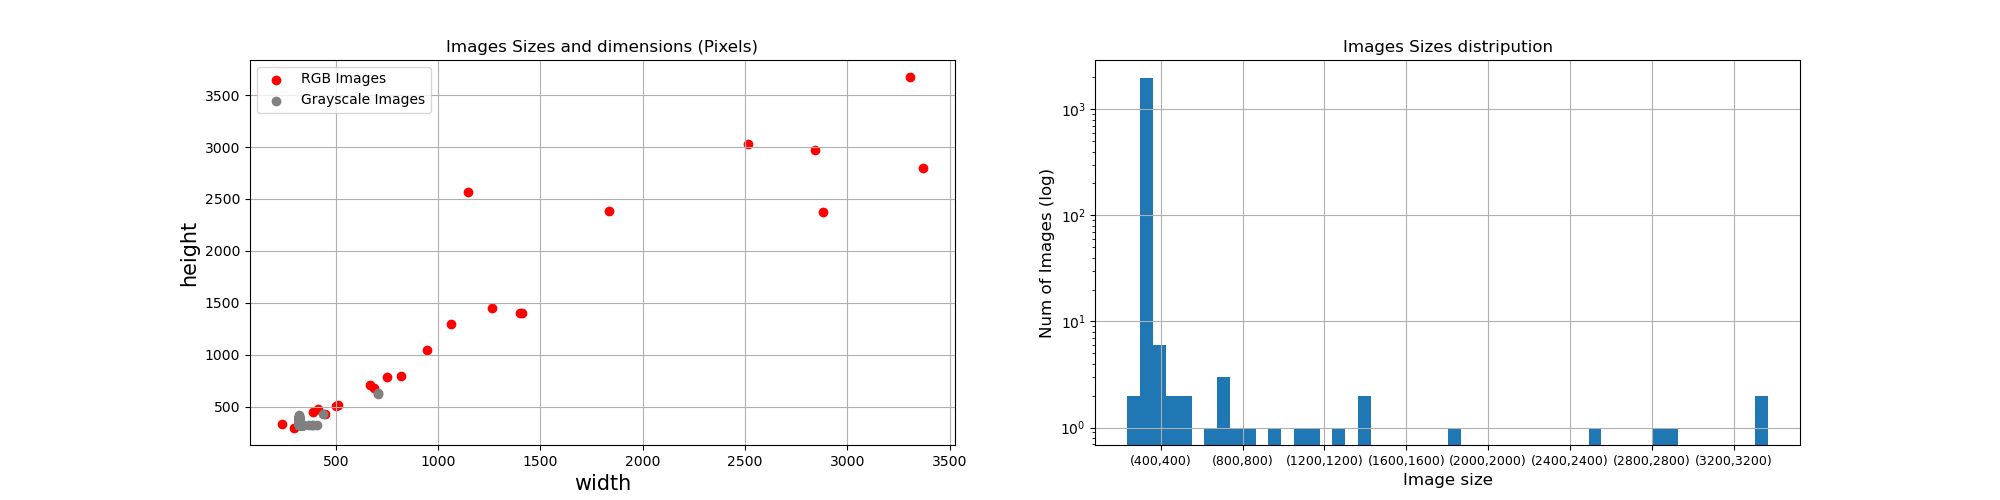
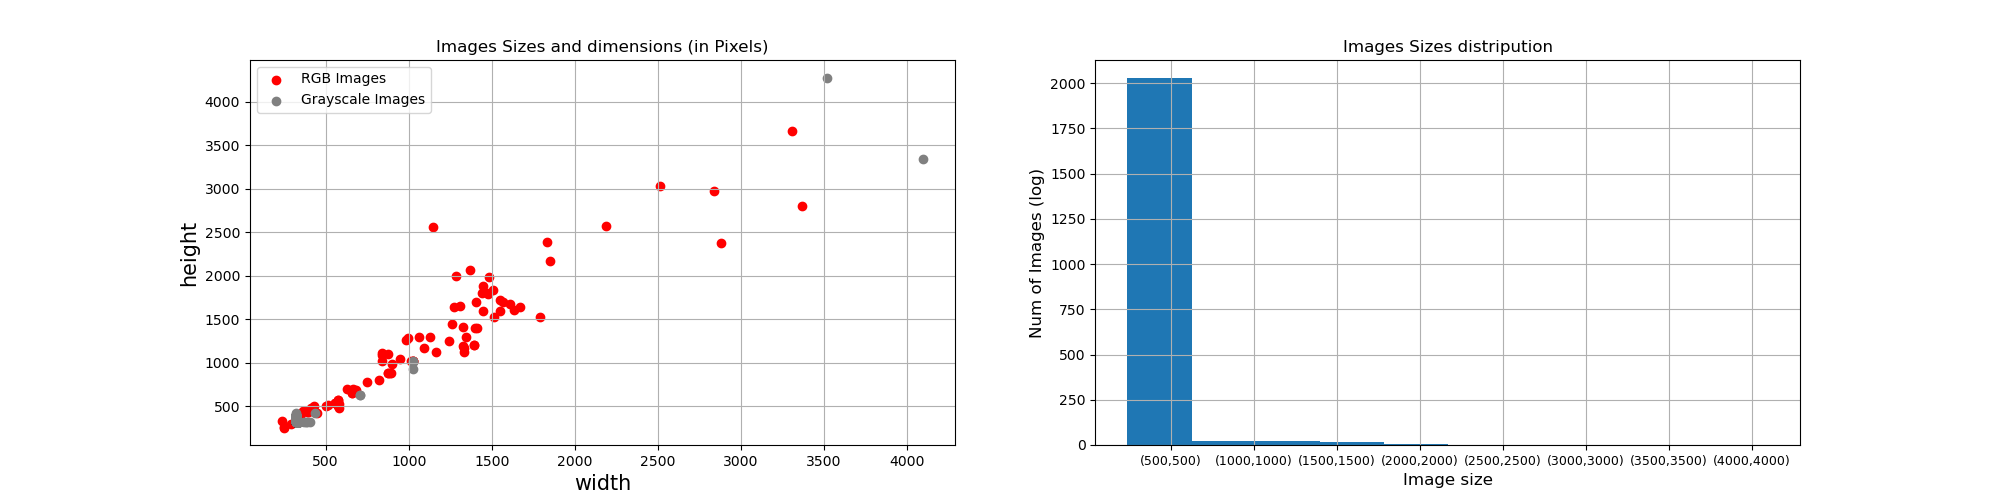
fix image formats jpg/png/jpeg

diff --git a/data_analysis.py b/data_analysis.py
@@ -19,8 +19,8 @@ def clean_data(df):
     return df
 
 
-# Read the image list and csv
-images_path = 'images/*.jpg'
+# Read the image list and csv as Dataframe
+images_path = 'images/*'
 image_files = glob(images_path, recursive=True)
 df = pd.read_csv('metadata.csv')
 
@@ -35,16 +35,15 @@ for im in image_files:
     else:
         gray_imgs.append((image.shape[0], image.shape[1], None))
 
-data = np.array(colored_imgs + gray_imgs)
+all_imgs = np.array(colored_imgs + gray_imgs)
 colored_imgs = np.array(colored_imgs)
 gray_imgs = np.array(gray_imgs)
 
-
 print('RGB images {}'.format(len(colored_imgs)))
 print('Grayscale images {}'.format(len(gray_imgs)))
+
 fig = plt.figure(figsize=(20, 5))
 ax1 = fig.add_subplot(121)
-
 ax1.scatter(colored_imgs[:, 0], colored_imgs[:, 1], c='r', label='RGB Images')
 ax1.scatter(gray_imgs[:, 0], gray_imgs[:, 1], c='gray', label='Grayscale Images')
 ax1.grid()
@@ -54,7 +53,7 @@ ax1.set_title('Images Sizes and dimensions (in Pixels)', fontsize=12)
 ax1.legend()
 ax1 = fig.add_subplot(122)
 
-ax1.hist(data[:, :1], bins=50)
+ax1.hist(all_imgs[:, :1], bins=10)
 ax1.grid()
 ax1.set_xlabel('Image size', fontsize=12)
 ax1.set_ylabel('Num of Images (log)', fontsize=12)
@@ -62,19 +61,20 @@ ax1.xaxis.set_major_formatter(FuncFormatter((lambda x, b: '({},{})'.format(int(x
 ax1.xaxis.set_major_locator(MaxNLocator(integer=True))
 ax1.xaxis.set_tick_params(labelsize=9)
 ax1.set_title('Images Sizes distripution', fontsize=12)
-ax1.set_yscale('log')
 plt.savefig('image_sizes.png')
 
-plt.figure(figsize=(15, 5))
+plt.figure(figsize=(13, 5))
 plt.subplot(121)
 male_ratio = df[(df["Covid"] == 1) & (df["Sex"] == 'Male')]
 female_ratio = df[(df["Covid"] == 1) & (df["Sex"] == 'Female')]
 plt.bar('Male', male_ratio.shape[0])
 plt.bar('Female', female_ratio.shape[0])
-plt.ylabel('Cases', fontsize=15)
+plt.ylabel('COVID-19 Cases', fontsize=12)
 
 covid = df[(df["Covid"] == 1)]
 plt.subplot(122)
 covid['Age'].hist(bins=20)
 plt.xlabel('Age', fontsize=12)
 plt.savefig('features_analysis.png')
+
+print('Train images {}'.format(len(df)))
